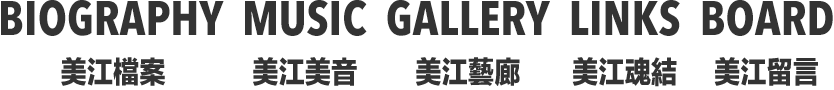
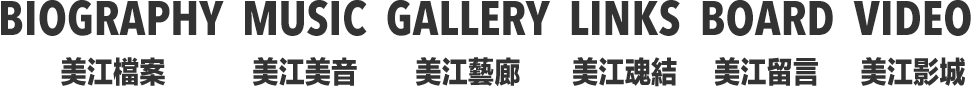
Add video to navbar menu

diff --git a/app/assets/stylesheets/components/header.css.scss b/app/assets/stylesheets/components/header.css.scss
@@ -66,6 +66,10 @@
     width: 65px;
     background-position-x: -352px; // 286+54+11 +1
   }
+  .menu-video {
+    width: 59px;
+    background-position-x: -427px; // 352+60+11 -1
+  }
 }
 
 @media (max-width: 991px) {
